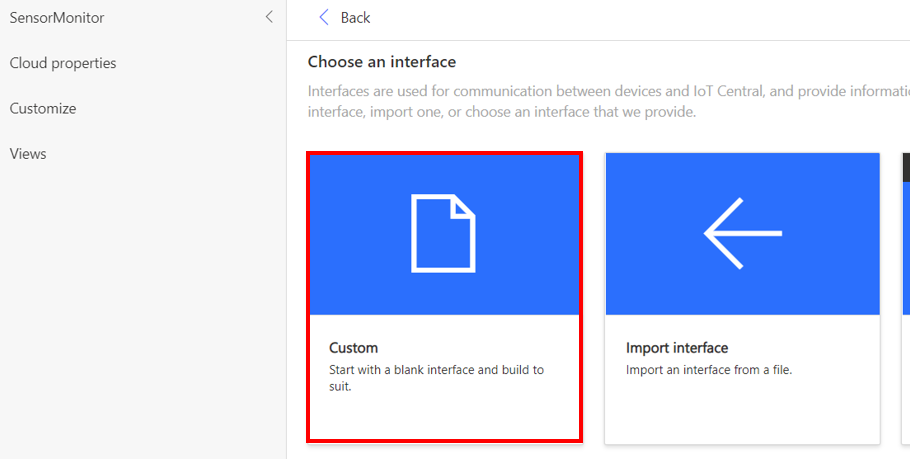
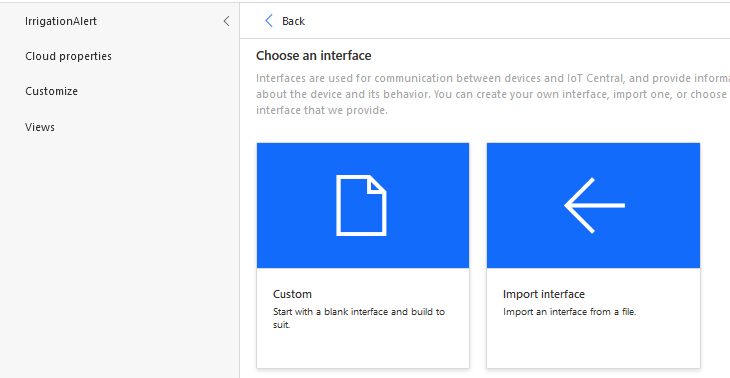
Adding Lab 2 Device Template

diff --git a/Aware_Kits/Lab2_WaterYourPlant/Alarm_system/Device_Template_IoTC.md b/Aware_Kits/Lab2_WaterYourPlant/Alarm_system/Device_Template_IoTC.md
@@ -1,12 +1,10 @@
-# Creating a new IoT Central application template
+# Create a new Device Template in IoT Central
 
 You have already created an IoT Central Application in [Lab 1](../../Lab1_MonitoryourPlan/IoTCentral/Create_app_IoTCentral.md). For this scenario, you will need to add a new interface to your device template so that a command to trigger the alert system can be sent to the device.
 
-## Create a new device template
+## Create the device template
 
-As seen previously, device types are defined using templates - these specify the capabilities of the device including the telemetry that can be received from the device, and commands that can be sent to it.
-
-We have already created a device template that receives temperature, humidity, air pressure, soil moisture and light conditions from your sensor device. You will need to define a new template that has these values on it, as well as a new command that communicates to the raspberry pi when the plant needs to be watered.
+We have previously created a device template called **SensorDevice** that receives temperature, humidity, air pressure, soil moisture and light conditions. For this lab, you will need to define a new device template that has the same telemetry capabilities, as well as a new command that communicates to the raspberry pi when the plant needs to be watered.
 
 1. From the left panel select **Device Template**. Then click on **+ New**.
 
@@ -18,17 +16,24 @@ We have already created a device template that receives temperature, humidity, a
 
 1. Select the **Next: Customize** button.
 
+1. Name the template `IrrigationAlert`.
+
+   ![Name Template](./media/name_template.png)
+
 1. Select the **Next: Review** button.
 
 1. Select the **Create** button.
 
-1. Name the template `IrrigationMonitor`.
+   ![Create Template](./media/create_template.png)
+
 
 ## Create the Capability Model
 
 Once the template is created, you need to add capabilities to it as you have done previously. These are defined using **capability models**, which define the capabilities of all devices that will use this template. 
 
-1. Select the **Custom** capability model
+1. Select the **Custom** capability model]
+
+   ![Create Template](./media/custom_model.png)
 
 1. Click on **+Add interface**
 
@@ -49,22 +54,23 @@ Once the template is created, you need to add capabilities to it as you have don
    | Soil Moisture (%) | soil_moisture | Telemetry       | None          | Double | % |
    | Light Level (%)   | light_level   | Telemetry       | None          | Double | % |
 
-1. Additionally, you will need to add a command to communicate to the device that the plant needs to be watered.
+1. At this point. you will need to add an additional capability of the type **Command** to your model. The commnad interface allows you to call device commnads from IoT Central.
+
+   This will help communicate to the device that the plant needs to be watered. In this case, the command `needs_watering` can be sent to your device to trigger an alert.
+
 
    |  Display Name     | Name             | Capability Type |
    | -------------     | -------------    | --------------- |
    | Needs Watering    | needs_watering   | Command         |
 
-   [Add screenshot]
 
-
-   Turn on Request for the command and set the following values:
+1. Turn on Request for the command and set the following values:
 
    |  Display Name     | Name             | Schema |
    | -------------     | -------------    | --------------- |
    | Needs Watering    | needs_watering   | Boolean         |
 
-   [Add screenshot]
+   ![Add command](media/command_add_capability.png)
 
 ## Add a view
 
@@ -76,22 +82,15 @@ Once the template is created, you need to add capabilities to it as you have don
 
    ![select new view](./media/select_new_view.png)
 
-1. Set the view name to `Overview`. We will use this view to show the charts of the values recorded.
+1. Set the view name to `Overview`. You can use this view to show the charts of the values recorded. Configure the dashboard to your liking.
 
-1. Configure the dashboard to your liking. As with the capabilities in the telemetry section, you will be able to drag *Needs Watering* from the *Commands* section onto the dashboard.
+1. As with the capabilities in the telemetry section, you will be able to drag *Needs Watering* from the *Commands* section onto the dashboard. Create a new view and name it `Commands View`. Add the command tile as shown below.
 
-   [add screenshot]
+   ![Add command tile](./media/command_add_tile.png)
 
 1. Select the **Save** button from the top menu
 
    ![The save view button](./media/save_view.png)
-
-
-   Here is an example of how it can look like.
-
-   ![sensor charts](./media/chart_view.png)
-
-   ![sensor data](./media/sensor_view.png)
 
 ## Publish the device template
 
@@ -108,23 +107,25 @@ Once the template is created, you need to add capabilities to it as you have don
 
 You will need to create a new device, and connect your device as you have done previously.
 
-1. Go to **Devices** > **IrrigationMonitor**.
+1. Go to **Devices** > **IrrigationAlert**.
 
-   ![devices](./media/devices_sensorMonitor.png)
+   ![devices](./media/devices_IrrigationAlert.png)
 
 1. Select **+ New**.
 
-1. Set the **Device Name** to `Lab 2 Sensor` and the **Devide Id** to `raspberry_pi_2`. Then Click on **Create**.
-
    ![create device](./media/create_device.png)
 
-A new device should appear in the devices list.
+1. Set the **Template type** to `IrrigationAlert`, the **Device Name** to `Lab 2 Monitor`, and the **Devide Id** to `raspberry_pi2`. Then Click on **Create**. 
 
-![device list](./media/device_list.png)
+   ![create device dialog](./media/create_device_dialog.png)
+
+   A second device should appear in the devices list.
+
+   ![device list](./media/device_list.png)
 
 ### Get the device connection details
 
-Each device has a seet of connection details that will be used on the actual device to connect to Azure IoT Central and send telemetry.
+Now that a new device is created, you will need to take note of the new connection details to sending telemetry and receiving commmands.
 
 1. Click on the Raspberry pi device you have just created.
 
@@ -132,10 +133,10 @@ Each device has a seet of connection details that will be used on the actual dev
 
    ![connect device](./media/connect_device.png)
 
-1. Take note of the **ID Scope**, **Device Id** and **Primary key**. You will need these values to send the data from the raspberry pi.
+1. Take note of the **ID Scope**, **Device Id** and **Primary key**.
 
-   ![connection details](./media/device_connection_details.png)
+1. Update these entries on your raspberry pi
 
 ------------------
 
-[Next Step](./Send_data_to_IoTCentral.md): write the python code to send telemetry data to IoT Central.
+Next Step: [Trigger an email notification in IoT Central](IoT_Central_create_rule.md)
